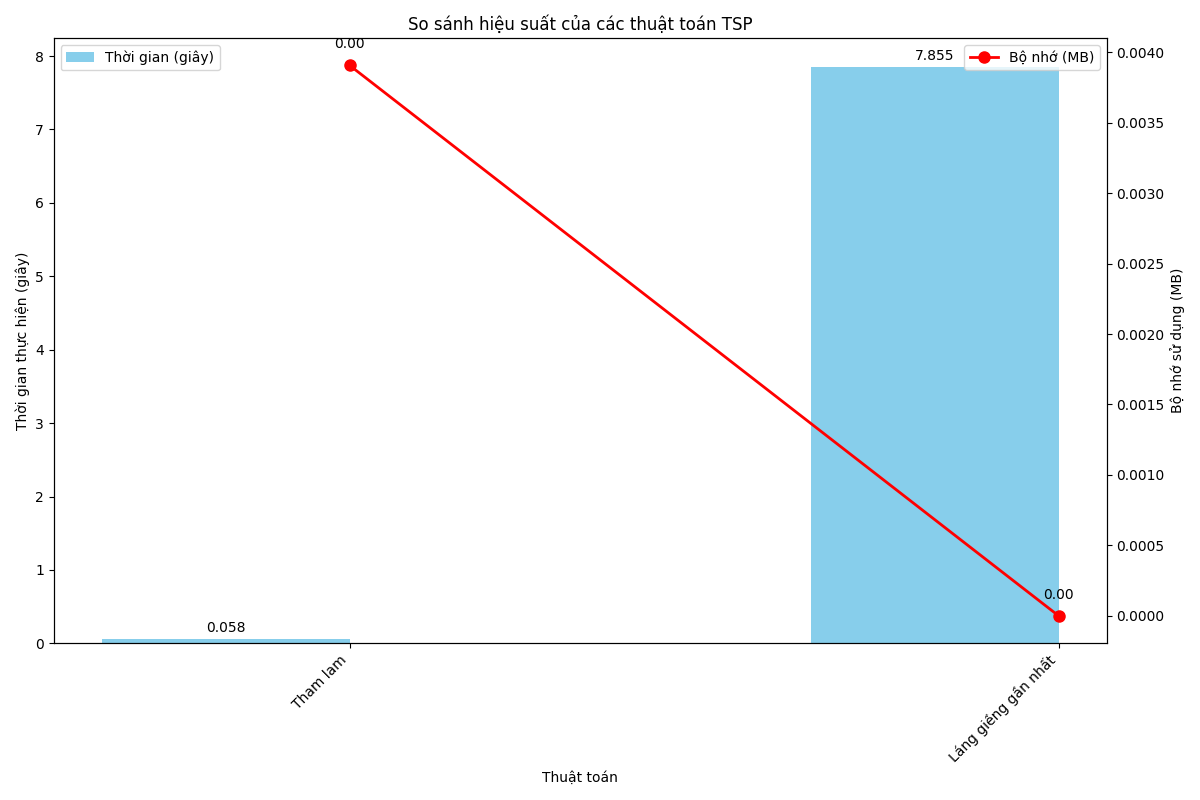
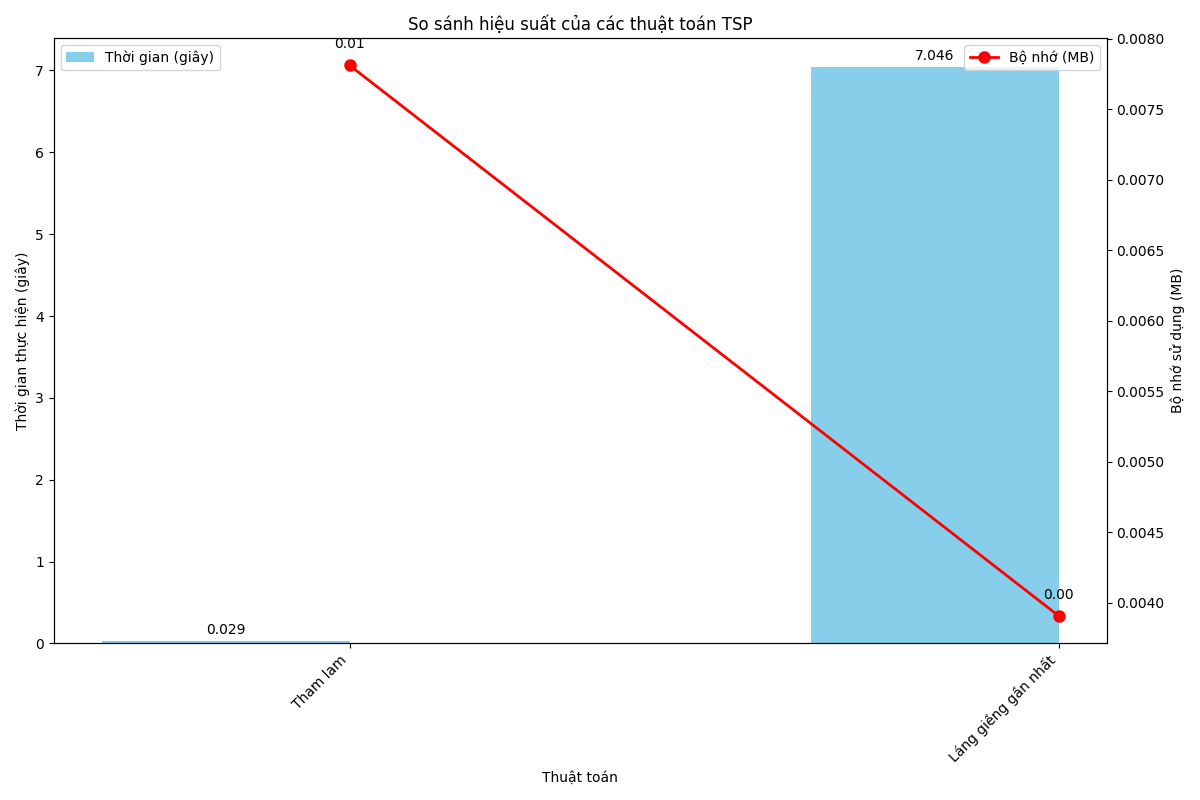
done

diff --git a/main.py b/main.py
@@ -456,7 +456,7 @@ def visualize_results(results: List[Tuple[str, float, float, float]]):
     ax2.legend(loc='upper right')
     
     plt.tight_layout()
-    plt.savefig('500.png')# thay đổi tên của từng dữ liệu để quản lý dễ hơn nha
+    plt.savefig('300.png')# thay đổi tên của từng dữ liệu để quản lý dễ hơn nha
     plt.close()
 
 def run_tsp_solver(file_path: str):
@@ -562,6 +562,6 @@ if __name__ == "__main__":
     if len(sys.argv) > 1:
         file_path = sys.argv[1]
     else:
-        file_path = "500.tsp"  # Thay đổi tên file TSP tại đây để lấy kết quả nha
+        file_path = "300.tsp"  # Thay đổi tên file TSP tại đây để lấy kết quả nha
     
     run_tsp_solver(file_path)
